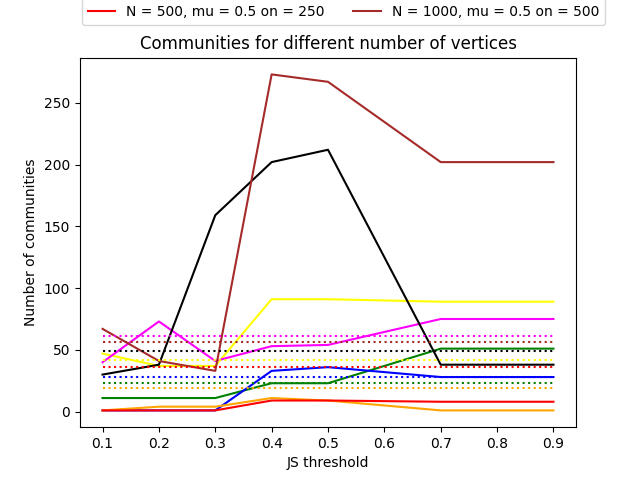
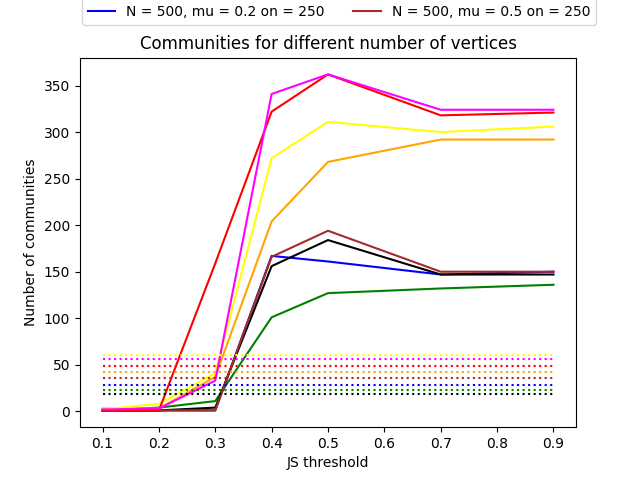
updated benchmarks, add some plots

diff --git a/benchmark/testing_modification.py b/benchmark/testing_modification.py
@@ -1,0 +1,91 @@
+from benchmark.methods import test_ndocd
+from plots.plots import plot_measure_results_data, create_8_plots
+import pickle
+
+folder = "data/benchmark/"
+N_list = [500, 1000]
+mu_list = [0.2, 0.5]
+on_over_n_list = [0.2, 0.5]
+times = []
+nmis = []
+modularities = []
+n_communities = []
+labels = []
+modularities_base = []
+n_communities_base = []
+modification_percents = [0.0, 0.1, 0.2, 0.3, 0.4, 0.5]
+modification_numbers = [5, 10, 20, 30, 40, 50]
+MD_threshold = 0.3
+JS_threshold = 0.3
+for N in N_list:
+    for mu in mu_list:
+        for on_over_n in on_over_n_list:
+            this_times = []
+            this_nmis = []
+            this_mods = []
+            this_ncoms = []
+            for modification_percent in modification_percents:
+                time, nmi, mod_ndocd, mod_base, n_coms, n_coms_base = test_ndocd(folder, file_appending="b1_" + str(N) + str(mu) + str(on_over_n), MD_threshold=MD_threshold, JS_threshold=JS_threshold, modification=True, modification_percent=modification_percent, modification_number=10, modification_type="percent")
+                this_times.append(time)
+                this_nmis.append(nmi)
+                this_mods.append(mod_ndocd)
+                this_ncoms.append(n_coms)
+                print(f'Ended: percent - {modification_percent}, N - {N}, time - {time} \n')
+            times.append(this_times)
+            nmis.append(this_nmis)
+            modularities.append(this_mods)
+            n_communities.append(this_ncoms)
+            labels.append(f"N = {N}, mu = {mu} on = {int(N*on_over_n)}")
+            modularities_base.append(mod_base)
+            n_communities_base.append(n_coms_base)
+            print(f'\n\n Ended: N - {N} \n\n')
+
+
+# plot_measure_results_data(times[:4], x=modification_percents, labels=labels[:4], title_base="Time for different number of vertices", title_ending="", ylabel="Time", xlabel="JS and MD thresholds", save_name="plots/b1c1_time")
+# plot_measure_results_data(nmis[:4], x=modification_percents, labels=labels[:4], title_base="Mutual information for different number of vertices", title_ending="", ylabel="Normalized mutual information", xlabel="JS and MD thresholds", save_name="plots/b1c1_nmi")
+# plot_measure_results_data(modularities[:4], error=modularities_base, x=modification_percents, labels=labels[:4], title_base="Modularities for different number of vertices", title_ending="", ylabel="Link belong modularity", xlabel="JS and MD thresholds", save_name="plots/b1c1_modularity")
+# plot_measure_results_data(n_communities[:4], error=n_communities_base, x=modification_percents, labels=labels[:4], title_base="Communities for different number of vertices", title_ending="", ylabel="Number of communities", xlabel="JS and MD thresholds", save_name="plots/b1c1_ncoms")
+# plot_measure_results_data(times[4:], x=modification_percents, labels=labels[4:], title_base="Time for different number of vertices", title_ending="", ylabel="Time", xlabel="JS and MD thresholds", save_name="plots/b1c2_time")
+# plot_measure_results_data(nmis[4:], x=modification_percents, labels=labels[4:], title_base="Mutual information for different number of vertices", title_ending="", ylabel="Normalized mutual information", xlabel="JS and MD thresholds", save_name="plots/b1c2_nmi")
+# plot_measure_results_data(modularities[4:], error=modularities_base, x=modification_percents, labels=labels[4:], title_base="Modularities for different number of vertices", title_ending="", ylabel="Link belong modularity", xlabel="JS and MD thresholds", save_name="plots/b1c2_modularity")
+# plot_measure_results_data(n_communities[4:], error=n_communities_base, x=modification_percents, labels=labels[4:], title_base="Communities for different number of vertices", title_ending="", ylabel="Number of communities", xlabel="JS and MD thresholds", save_name="plots/b1c2_ncoms")
+pickle.dump((times, nmis, modularities, n_communities, labels, modularities_base, n_communities_base, modification_percents), open("data/benchmark/b1c", 'wb'))
+# times, nmis, modularities, n_communities, labels, modularities_base, n_communities_base, modification_percents = pickle.load(open("data/benchmark/b1c", 'rb'))
+create_8_plots(times, nmis, modularities, n_communities, modularities_base, n_communities_base, labels, modification_percents, "percent of left edges", "b1c")
+
+
+times = []
+nmis = []
+modularities = []
+n_communities = []
+labels = []
+modularities_base = []
+n_communities_base = []
+for N in N_list:
+    for mu in mu_list:
+        for on_over_n in on_over_n_list:
+            this_times = []
+            this_nmis = []
+            this_mods = []
+            this_ncoms = []
+            for modification_number in modification_numbers:
+                time, nmi, mod_ndocd, mod_base, n_coms, n_coms_base = test_ndocd(folder, file_appending="b1_" + str(N) + str(mu) + str(on_over_n), MD_threshold=MD_threshold, JS_threshold=JS_threshold, modification=True, modification_number=modification_number, modification_type="number")
+                this_times.append(time)
+                this_nmis.append(nmi)
+                this_mods.append(mod_ndocd)
+                this_ncoms.append(n_coms)
+                print(f'Ended: number - {modification_number}, N - {N}, time - {time} \n')
+            times.append(this_times)
+            nmis.append(this_nmis)
+            modularities.append(this_mods)
+            n_communities.append(this_ncoms)
+            labels.append(f"N = {N}, mu = {mu} on = {int(N*on_over_n)}")
+            modularities_base.append(mod_base)
+            n_communities_base.append(n_coms_base)
+            print(f'\n\n Ended: N - {N} \n\n')
+
+
+pickle.dump((times, nmis, modularities, n_communities, labels, modularities_base, n_communities_base, modification_numbers), open("data/benchmark/b1d", 'wb'))
+# times, nmis, modularities, n_communities, labels, modularities_base, n_communities_base, modification_numbers = pickle.load(open("data/benchmark/b1d", 'rb'))
+create_8_plots(times, nmis, modularities, n_communities, modularities_base, n_communities_base, labels, modification_numbers, "minimal number of t_ij to left edge", "b1d")
+

diff --git a/benchmark/testing_base.py b/benchmark/testing_base.py
@@ -1,5 +1,5 @@
 from benchmark.methods import test_ndocd
-from plots.plots import plot_measure_results_data
+from plots.plots import plot_measure_results_data, create_8_plots
 import pickle
 
 folder = "data/benchmark/"
@@ -39,12 +39,9 @@ for N in N_list:
             print(f'\n\n Ended: N - {N} \n\n')
 
 
-plot_measure_results_data(times, x=JS_thresholds, labels=labels, title_base="Time for different number of vertices", title_ending="", ylabel="Time", xlabel="JS and MD thresholds", save_name="plots/b1z_time")
-plot_measure_results_data(nmis, x=JS_thresholds, labels=labels, title_base="Mutual information for different number of vertices", title_ending="", ylabel="Normalized mutual information", xlabel="JS and MD thresholds", save_name="plots/b1z_nmi")
-plot_measure_results_data(modularities, error=modularities_base, x=JS_thresholds, labels=labels, title_base="Modularities for different number of vertices", title_ending="", ylabel="Link belong modularity", xlabel="JS and MD thresholds", save_name="plots/b1z_modularity")
-plot_measure_results_data(n_communities, error=n_communities_base, x=JS_thresholds, labels=labels, title_base="Communities for different number of vertices", title_ending="", ylabel="Number of communities", xlabel="JS and MD thresholds", save_name="plots/b1z_ncoms")
 pickle.dump((times, nmis, modularities, n_communities, labels, modularities_base, n_communities_base, JS_thresholds), open("data/benchmark/b1z", 'wb'))
 # times, nmis, modularities, n_communities, labels, modularities_base, n_communities_base, JS_thresholds = pickle.load(open("data/benchmark/b1z", 'rb'))
+create_8_plots(times, nmis, modularities, n_communities, modularities_base, n_communities_base, labels, JS_thresholds, "JS and MD thresholds", "b1z")
 
 
 times = []
@@ -79,12 +76,9 @@ for N in N_list:
             print(f'\n\n Ended: N - {N} \n\n')
 
 
-plot_measure_results_data(times, x=JS_thresholds, labels=labels, title_base="Time for different number of vertices", title_ending="", ylabel="Time", xlabel="JS threshold", save_name="plots/b1a_time")
-plot_measure_results_data(nmis, x=JS_thresholds, labels=labels, title_base="Mutual information for different number of vertices", title_ending="", ylabel="Normalized mutual information", xlabel="JS threshold", save_name="plots/b1a_nmi")
-plot_measure_results_data(modularities, error=modularities_base, x=JS_thresholds, labels=labels, title_base="Modularities for different number of vertices", title_ending="", ylabel="Link belong modularity", xlabel="JS threshold", save_name="plots/b1a_modularity")
-plot_measure_results_data(n_communities, error=n_communities_base, x=JS_thresholds, labels=labels, title_base="Communities for different number of vertices", title_ending="", ylabel="Number of communities", xlabel="JS threshold", save_name="plots/b1a_ncoms")
 pickle.dump((times, nmis, modularities, n_communities, labels, modularities_base, n_communities_base, JS_thresholds), open("data/benchmark/b1a", 'wb'))
 # times, nmis, modularities, n_communities, labels, modularities_base, n_communities_base, JS_thresholds = pickle.load(open("data/benchmark/b1a", 'rb'))
+create_8_plots(times, nmis, modularities, n_communities, modularities_base, n_communities_base, labels, JS_thresholds, "JS thresholds", "b1a")
 
 times = []
 nmis = []
@@ -118,9 +112,6 @@ for N in N_list:
             print(f'\n\n Ended: N - {N} \n\n')
 
 
-plot_measure_results_data(times, x=MD_thresholds, labels=labels, title_base="Time for different number of vertices", title_ending="", ylabel="Time", xlabel="MD threshold", save_name="plots/b1b_time")
-plot_measure_results_data(nmis, x=MD_thresholds, labels=labels, title_base="Mutual information for different number of vertices", title_ending="", ylabel="Normalized mutual information", xlabel="MD threshold", save_name="plots/b1b_nmi")
-plot_measure_results_data(modularities, error=modularities_base, x=MD_thresholds, labels=labels, title_base="Modularities for different number of vertices", title_ending="", ylabel="Link belong modularity", xlabel="MD threshold", save_name="plots/b1b_modularity")
-plot_measure_results_data(n_communities, error=n_communities_base, x=MD_thresholds, labels=labels, title_base="Communities for different number of vertices", title_ending="", ylabel="Number of communities", xlabel="MD threshold", save_name="plots/b1b_ncoms")
 pickle.dump((times, nmis, modularities, n_communities, labels, modularities_base, n_communities_base, MD_thresholds), open("data/benchmark/b1b", 'wb'))
 # times, nmis, modularities, n_communities, labels, modularities_base, n_communities_base, JS_thresholds = pickle.load(open("data/benchmark/b1b", 'rb'))
+create_8_plots(times, nmis, modularities, n_communities, modularities_base, n_communities_base, labels, MD_thresholds, "MD thresholds", "b1b")

diff --git a/plots/plots.py b/plots/plots.py
@@ -6,7 +6,7 @@ Not all method are useful in this project
 """
 
 
-def plot_measure_results_data(errors, error=None, title_base='MSE', title_ending=' through epochs', labels=["base model", "momentum model", "RMSProp model"], colors=["green", "blue", "orange", "red", "yellow", "magenta", "black", "brown"], xlabel='epochs', ylabel='MSE', from_error=0, show=True, x=None, save_name=None, log=False, log_y=False):
+def plot_measure_results_data(errors, error=None, title_base='MSE', title_ending=' through epochs', labels=["base model", "momentum model", "RMSProp model"], colors=["green", "blue", "red", "magenta", "black", "brown", "orange", "yellow",  "red", "magenta"], xlabel='epochs', ylabel='MSE', from_error=0, show=True, x=None, save_name=None, log=False, log_y=False):
     n = len(errors[0])
     if x is None:
         x = [i for i in range(from_error, n)]
@@ -27,3 +27,14 @@ def plot_measure_results_data(errors, error=None, title_base='MSE', title_ending
         plt.savefig(save_name)
     if show:
         plt.show()
+
+
+def create_8_plots(times, nmis, modularities, n_communities, modularities_base, n_communities_base, labels, x, xlabel, base_save_name):
+    plot_measure_results_data(times[:4], x=x, labels=labels[:4], title_base="Time", title_ending="", ylabel="Time", xlabel=xlabel, save_name="plots/" + base_save_name + "1_time")
+    plot_measure_results_data(nmis[:4], x=x, labels=labels[:4], title_base="Mutual information", title_ending="", ylabel="Normalized mutual information", xlabel=xlabel, save_name="plots/" + base_save_name + "1_nmi")
+    plot_measure_results_data(modularities[:4], error=modularities_base, x=x, labels=labels[:4], title_base="Modularities", title_ending="", ylabel="Link belong modularity", xlabel=xlabel, save_name="plots/" + base_save_name + "1_modularity")
+    plot_measure_results_data(n_communities[:4], error=n_communities_base, x=x, labels=labels[:4], title_base="Communities", title_ending="", ylabel="Number of communities", xlabel=xlabel, save_name="plots/" + base_save_name + "1_ncoms")
+    plot_measure_results_data(times[4:], x=x, labels=labels[4:], title_base="Time", title_ending="", ylabel="Time", xlabel=xlabel, save_name="plots/" + base_save_name + "2_time")
+    plot_measure_results_data(nmis[4:], x=x, labels=labels[4:], title_base="Mutual information", title_ending="", ylabel="Normalized mutual information", xlabel=xlabel, save_name="plots/" + base_save_name + "2_nmi")
+    plot_measure_results_data(modularities[4:], error=modularities_base, x=x, labels=labels[4:], title_base="Modularities", title_ending="", ylabel="Link belong modularity", xlabel=xlabel, save_name="plots/" + base_save_name + "2_modularity")
+    plot_measure_results_data(n_communities[4:], error=n_communities_base, x=x, labels=labels[4:], title_base="Communities", title_ending="", ylabel="Number of communities", xlabel=xlabel, save_name="plots/" + base_save_name + "2_ncoms")

diff --git a/benchmark/testing_time.py b/benchmark/testing_time.py
@@ -1,0 +1,35 @@
+from benchmark.methods import test_ndocd
+from plots.plots import plot_measure_results_data
+import pickle
+
+folder = "data/benchmark/"
+N_list = [i*200 for i in range(1, 11)]
+times = []
+nmis = []
+modularities = []
+n_communities = []
+labels = []
+modularities_base = []
+n_communities_base = []
+this_times = []
+this_nmis = []
+this_mods = []
+this_ncoms = []
+for N in N_list:
+    time, nmi, mod_ndocd, mod_base, n_coms, n_coms_base = test_ndocd(folder, file_appending="b1_" + str(N), MD_threshold=0.3, JS_threshold=0.3)
+    this_times.append(time)
+    this_nmis.append(nmi)
+    this_mods.append(mod_ndocd)
+    this_ncoms.append(n_coms)
+    print(f'Ended: N - {N}, time - {time} \n')
+times.append(this_times)
+nmis.append(this_nmis)
+modularities.append(this_mods)
+n_communities.append(this_ncoms)
+labels.append(f"N = {N}")
+modularities_base.append(mod_base)
+n_communities_base.append(n_coms_base)
+print(f'\n\n Ended: N - {N} \n\n')
+
+
+plot_measure_results_data(times, x=N_list, labels=labels, title_base="Time for different number of vertices", title_ending="", ylabel="Time", xlabel="JS and MD thresholds", save_name="plots/b1z1_time")

diff --git a/benchmark/creation.py b/benchmark/creation.py
@@ -15,3 +15,7 @@ for N in N_list:
     for on_over_n in on_over_n_list:
         create_benchmark_weighted(N=N, on_over_n=on_over_n, file_appending="b1_" + str(N) + str(on_over_n))
 
+
+N_list = [i*200 for i in range(1, 11)]
+for N in N_list:
+    create_benchmark(N=N, file_appending="b2_" + str(N))
